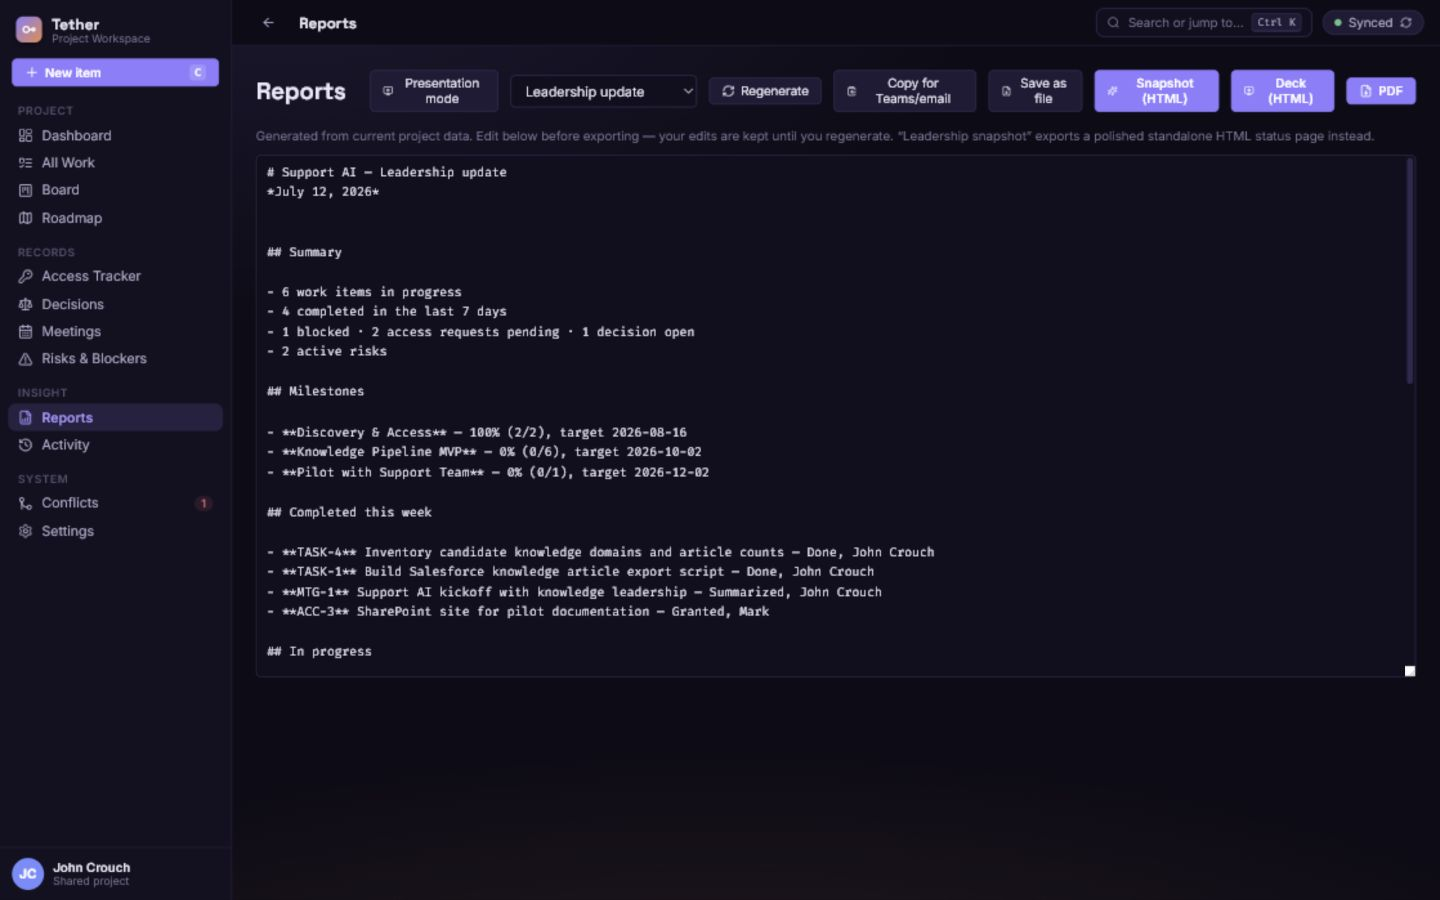
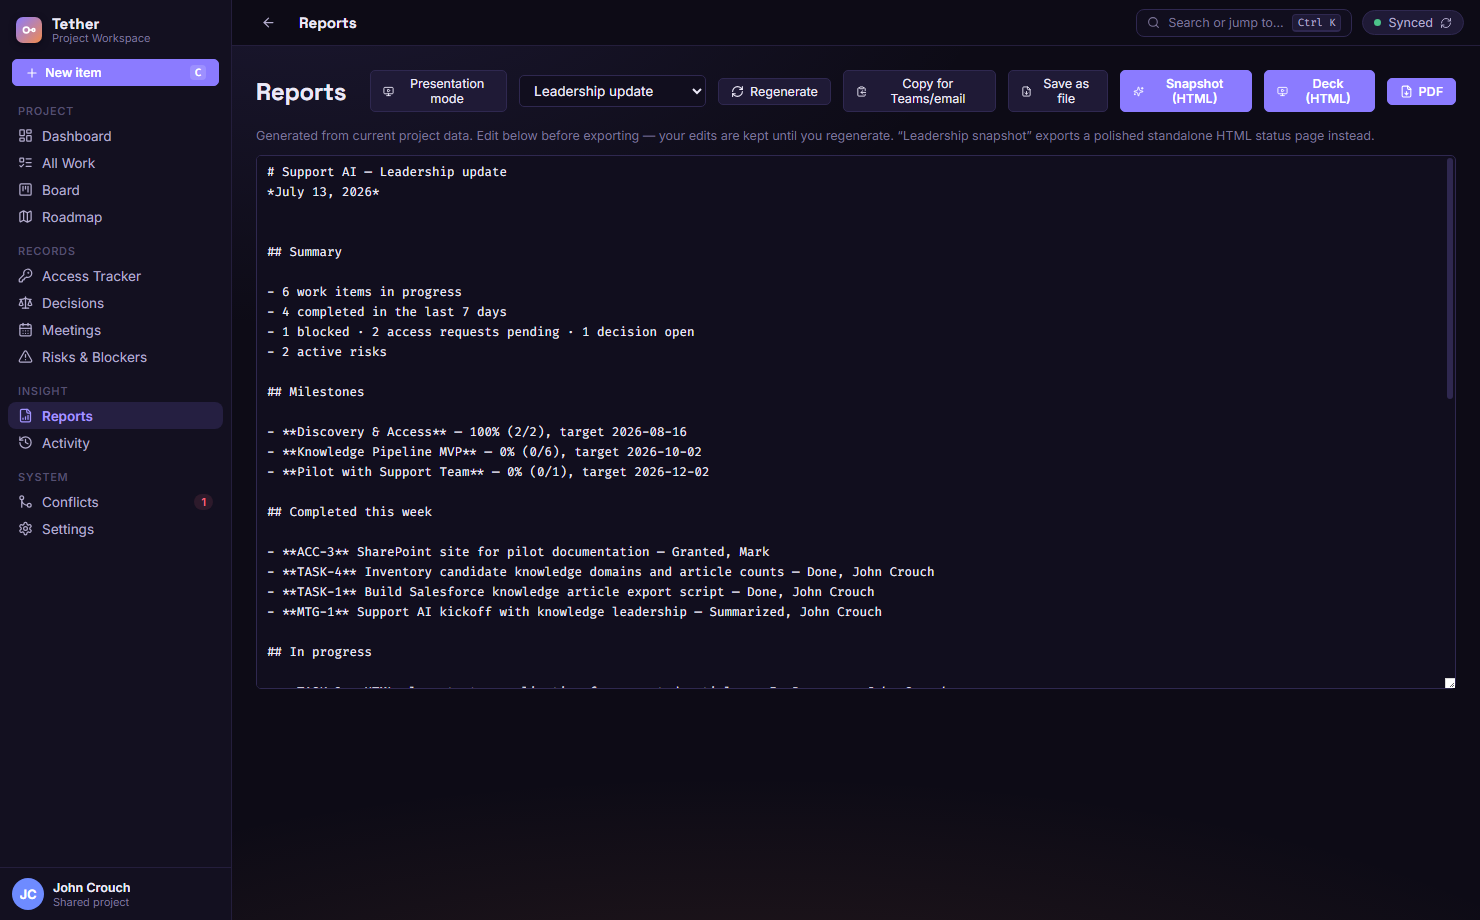
Walkthrough: add sync 'how a change travels' flow + 'Why not Neon?' comparison
- New sync 3-step strip: edit locally -> publish JSONL batch -> replay on peer,
  with the ops/<device>/*.jsonl path shown
- New #decision section 'Why not just put it in Neon?': side-by-side comparison
  (shared-folder op-log vs hosted Postgres) across data location, approval burden,
  offline, credentials, network, cost; plus 'not a dead end' transport-interface note
- Nav link 'Why not Neon'; refreshed app screenshots to current Nocturne build
- Accessibility: prefers-reduced-motion (and ?reveal=all capture flag) show all
  content immediately instead of scroll-gated reveals; em-dashes trimmed

diff --git a/docs/walkthrough/index.html b/docs/walkthrough/index.html
@@ -579,6 +579,114 @@
       text-transform: uppercase;
     }
 
+    /* ---- Sync: how a change travels (3-step strip) ---- */
+    .flow-steps {
+      display: grid;
+      grid-template-columns: repeat(3, 1fr);
+      gap: 16px;
+      margin-top: 26px;
+    }
+    .flow-step {
+      position: relative;
+      padding: 20px 20px 20px 56px;
+      border: 1px solid var(--line);
+      border-radius: 16px;
+      background: var(--panel);
+    }
+    .flow-step .num {
+      position: absolute;
+      left: 16px;
+      top: 18px;
+      width: 28px;
+      height: 28px;
+      border-radius: 9px;
+      display: grid;
+      place-items: center;
+      font-family: var(--mono);
+      font-size: 13px;
+      font-weight: 700;
+      color: #fff;
+      background: linear-gradient(135deg, var(--violet), var(--ember));
+    }
+    .flow-step h4 { font-size: 15px; margin-bottom: 5px; }
+    .flow-step p { color: var(--muted); font-size: 13px; line-height: 1.5; }
+    .flow-step code {
+      font-family: var(--mono);
+      font-size: 12px;
+      color: var(--cyan);
+      background: rgba(110, 215, 255, 0.08);
+      padding: 1px 6px;
+      border-radius: 5px;
+    }
+    @media (max-width: 900px) { .flow-steps { grid-template-columns: 1fr; } }
+
+    /* ---- Decision: why not Neon ---- */
+    #decision .versus {
+      display: grid;
+      grid-template-columns: 1fr 1fr;
+      gap: 18px;
+      margin-top: 32px;
+    }
+    .vs-col {
+      border: 1px solid var(--line);
+      border-radius: 20px;
+      background: var(--panel);
+      overflow: hidden;
+    }
+    .vs-col.win { border-color: rgba(76, 195, 138, 0.4); box-shadow: 0 0 0 1px rgba(76, 195, 138, 0.14), 0 30px 70px rgba(4, 3, 10, 0.4); }
+    .vs-head {
+      display: flex;
+      align-items: center;
+      gap: 12px;
+      padding: 20px 24px;
+      border-bottom: 1px solid var(--line);
+    }
+    .vs-head .badge {
+      font-family: var(--mono);
+      font-size: 10.5px;
+      letter-spacing: 0.14em;
+      text-transform: uppercase;
+      padding: 4px 10px;
+      border-radius: 999px;
+    }
+    .vs-col.win .badge { color: var(--green); background: rgba(76, 195, 138, 0.14); }
+    .vs-col.alt .badge { color: var(--yellow); background: rgba(242, 176, 76, 0.14); }
+    .vs-head h3 { font-size: 18px; }
+    .vs-head p { color: var(--faint); font-size: 12.5px; margin-top: 2px; }
+    .vs-row {
+      display: grid;
+      grid-template-columns: 22px 1fr;
+      gap: 12px;
+      padding: 14px 24px;
+      border-top: 1px solid rgba(180, 168, 240, 0.08);
+      font-size: 13.5px;
+      line-height: 1.5;
+    }
+    .vs-row .ic { font-size: 15px; line-height: 1.4; }
+    .vs-row b { color: var(--text); font-weight: 600; }
+    .vs-row span { color: var(--muted); }
+    .win .vs-row .ic { color: var(--green); }
+    .alt .vs-row .ic { color: var(--yellow); }
+    .vs-foot {
+      padding: 16px 24px;
+      border-top: 1px solid var(--line);
+      font-size: 13px;
+      color: var(--muted);
+      background: rgba(139, 123, 255, 0.05);
+    }
+    .decision-note {
+      margin-top: 26px;
+      padding: 18px 22px;
+      border-left: 2px solid var(--line-strong);
+      background: rgba(242, 140, 76, 0.06);
+      border-radius: 0 12px 12px 0;
+      color: var(--muted);
+      font-size: 14px;
+      line-height: 1.6;
+    }
+    .decision-note b { color: var(--text); }
+    @media (max-width: 900px) { #decision .versus { grid-template-columns: 1fr; } }
+
     .reveal {
       opacity: 0;
       transform: translateY(34px);
@@ -817,6 +925,7 @@
       <li><a href="#problem">Problem</a></li>
       <li><a href="#workspace">Workspace</a></li>
       <li><a href="#sync">Sync</a></li>
+      <li><a href="#decision">Why not Neon</a></li>
       <li><a href="#reports">Reports</a></li>
       <li><a href="#security">Security</a></li>
       <li><a href="#roadmap">Roadmap</a></li>
@@ -930,6 +1039,64 @@
         <div class="node b"><div><b>Mark</b><span>Private local database</span></div></div>
         <p class="caption">Offline edits queue locally, field-level changes converge, and title/body conflicts are surfaced for human review.</p>
       </div>
+    </div>
+
+    <div class="inner" style="padding-top: 8px;">
+      <div class="flow-steps">
+        <div class="flow-step reveal">
+          <span class="num">1</span>
+          <h4>Edit locally</h4>
+          <p>John changes a status. Tether writes it to his own SQLite database and appends a field-level op to a local log. Instant, and offline-safe.</p>
+        </div>
+        <div class="flow-step reveal">
+          <span class="num">2</span>
+          <h4>Publish a batch</h4>
+          <p>Tether drops an immutable <code>ops/&lt;device&gt;/…jsonl</code> file into the shared folder. Each device writes only its own directory, so there is no file locking and no shared database.</p>
+        </div>
+        <div class="flow-step reveal">
+          <span class="num">3</span>
+          <h4>Replay on Mark's machine</h4>
+          <p>Mark's Tether reads new batches, skips ops it has seen, and replays the rest. Lamport clocks order edits; concurrent text goes to the Conflicts screen.</p>
+        </div>
+      </div>
+    </div>
+  </section>
+
+  <section id="decision">
+    <div class="inner">
+      <div class="eyebrow reveal">The architecture question</div>
+      <h2 class="reveal">Why not just put it in Neon?</h2>
+      <p class="lead reveal">A hosted Postgres like Neon is a great fit for a public demo or a fully approved cloud app. For two people syncing a work project, it quietly adds a database to secure, credentials to manage, and data leaving the boundary, without removing the hard part. Here is the honest comparison.</p>
+
+      <div class="versus">
+        <div class="vs-col win reveal">
+          <div class="vs-head">
+            <span class="badge">Shipped in Tether</span>
+            <div><h3>Shared-folder op-log</h3><p>OneDrive / SharePoint + local SQLite</p></div>
+          </div>
+          <div class="vs-row"><span class="ic">✓</span><div><b>Data stays put.</b> <span>Project data never leaves the folder you already trust. Its ACLs, audit, encryption, and retention apply as-is.</span></div></div>
+          <div class="vs-row"><span class="ic">✓</span><div><b>Nothing new to approve.</b> <span>No account, no provisioning, no security review of a third-party database. Uses infrastructure you already have.</span></div></div>
+          <div class="vs-row"><span class="ic">✓</span><div><b>Works offline by design.</b> <span>Every device is fully usable with no network. Edits queue and flush when the folder returns.</span></div></div>
+          <div class="vs-row"><span class="ic">✓</span><div><b>No credentials, no secrets.</b> <span>Tether makes zero network calls of its own. No connection string to leak, rotate, or hard-code.</span></div></div>
+          <div class="vs-row"><span class="ic">✓</span><div><b>Inspectable.</b> <span>Sync artifacts are human-readable JSONL; the merge and audit logic runs locally where you can review it.</span></div></div>
+          <div class="vs-foot">Cost: $0. Runs on what the team already pays for.</div>
+        </div>
+
+        <div class="vs-col alt reveal">
+          <div class="vs-head">
+            <span class="badge">Neon / hosted Postgres</span>
+            <div><h3>Managed cloud database</h3><p>External service over the network</p></div>
+          </div>
+          <div class="vs-row"><span class="ic">!</span><div><b>Data leaves the boundary.</b> <span>Project records move to a third-party host, often the exact thing an employer's review is meant to prevent.</span></div></div>
+          <div class="vs-row"><span class="ic">!</span><div><b>New thing to approve.</b> <span>Account, provisioning, access review, backup/retention decisions, and an ongoing operational owner.</span></div></div>
+          <div class="vs-row"><span class="ic">!</span><div><b>Offline still needs a cache.</b> <span>A server DB doesn't remove the hard part. You would still build a local cache and merge layer on top.</span></div></div>
+          <div class="vs-row"><span class="ic">!</span><div><b>Credentials to manage.</b> <span>Connection strings and secrets to store, rotate, and keep out of source control.</span></div></div>
+          <div class="vs-row"><span class="ic">!</span><div><b>Network dependency.</b> <span>Latency, outages, and a live endpoint become part of the day-to-day experience.</span></div></div>
+          <div class="vs-foot">Great later, behind the same interface, once it's approved.</div>
+        </div>
+      </div>
+
+      <p class="decision-note reveal"><b>Not a dead end.</b> Tether's sync sits behind a transport interface. The op-log and merge rules stay the same, so an approved backend later (Azure SQL, an internal API, or yes, Postgres) is a swap, not a rewrite. We chose the path that ships today without asking anyone's permission, and kept the door open to the one that might need it.</p>
     </div>
   </section>
 
@@ -1059,14 +1226,28 @@
   </section>
 
   <script>
-    const observer = new IntersectionObserver((entries) => {
-      entries.forEach((entry) => {
-        if (entry.isIntersecting) entry.target.classList.add('visible');
-      });
-    }, { threshold: 0.12, rootMargin: '0px 0px -60px 0px' });
+    // Reduced-motion (and print) users get all content immediately — no scroll-triggered reveals.
+    // ?reveal=all forces the same static state (used for capturing full-page screenshots).
+    const captureMode = new URLSearchParams(location.search).get('reveal') === 'all';
+    const reduceMotion = window.matchMedia('(prefers-reduced-motion: reduce)').matches || captureMode;
+    // Capture mode: cap the 100vh hero to natural height, optionally scroll to a section.
+    if (captureMode) {
+      const css = document.createElement('style');
+      css.textContent = 'section{min-height:auto !important;padding-top:64px !important;padding-bottom:64px !important;} #hero{min-height:auto !important;padding:120px 0 90px !important;}';
+      document.head.appendChild(css);
+    }
+    if (reduceMotion) {
+      document.querySelectorAll('.reveal').forEach((el) => el.classList.add('visible'));
+    } else {
+      const observer = new IntersectionObserver((entries) => {
+        entries.forEach((entry) => {
+          if (entry.isIntersecting) entry.target.classList.add('visible');
+        });
+      }, { threshold: 0.12, rootMargin: '0px 0px -60px 0px' });
 
-    document.querySelectorAll('.reveal').forEach((el) => observer.observe(el));
-    document.querySelectorAll('#hero .reveal').forEach((el) => el.classList.add('visible'));
+      document.querySelectorAll('.reveal').forEach((el) => observer.observe(el));
+      document.querySelectorAll('#hero .reveal').forEach((el) => el.classList.add('visible'));
+    }
 
     (function heroCanvas() {
       const canvas = document.getElementById('heroCanvas');
